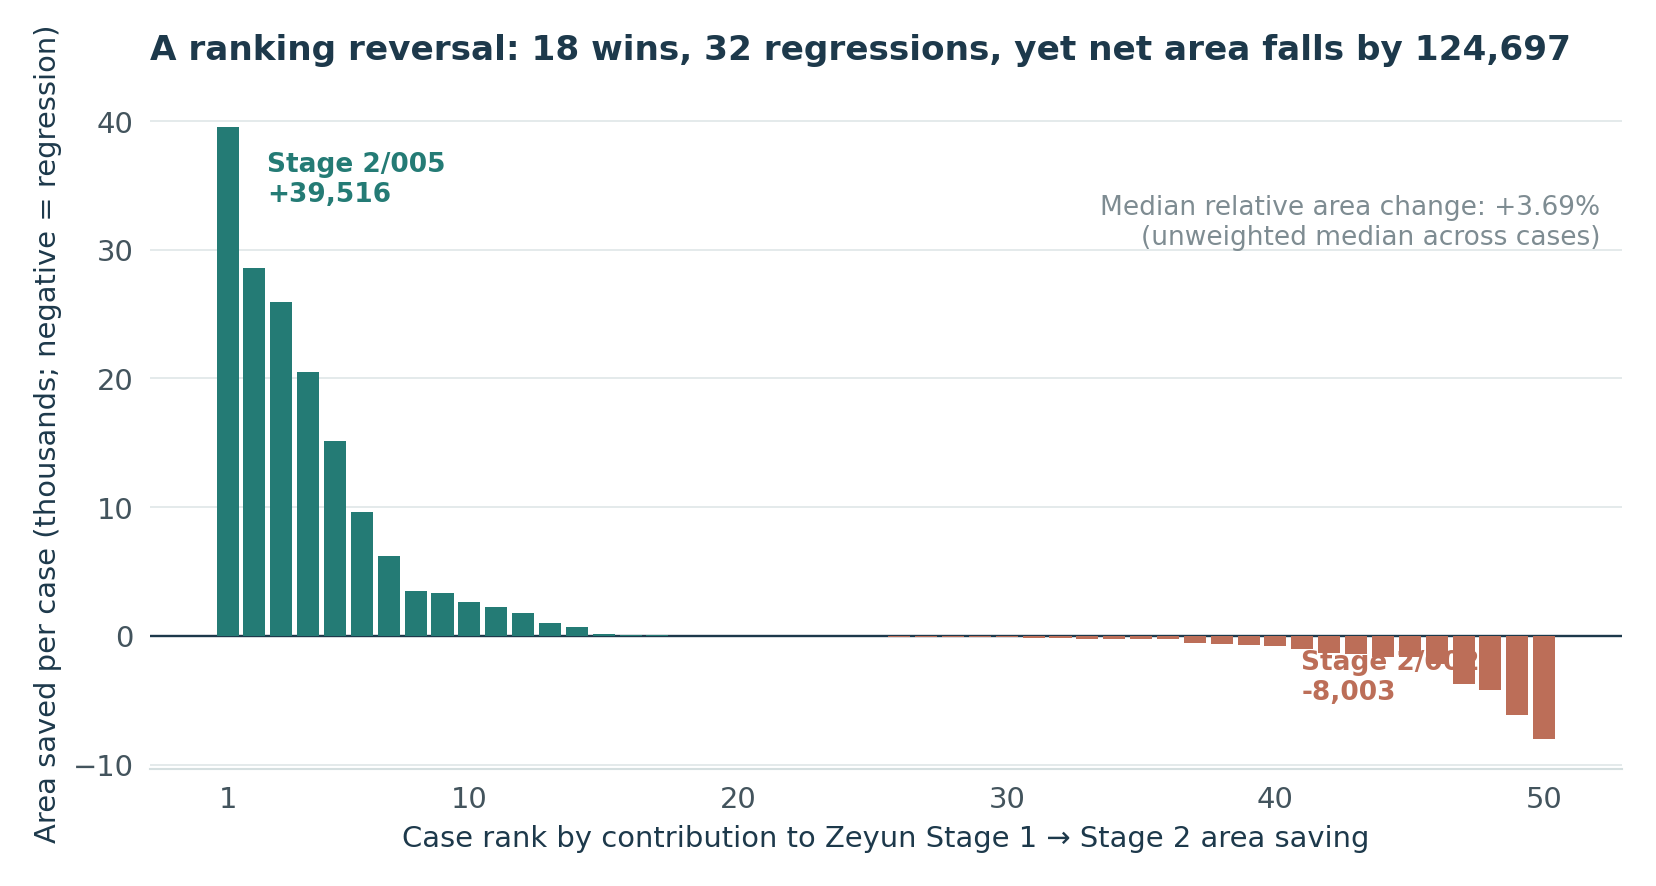
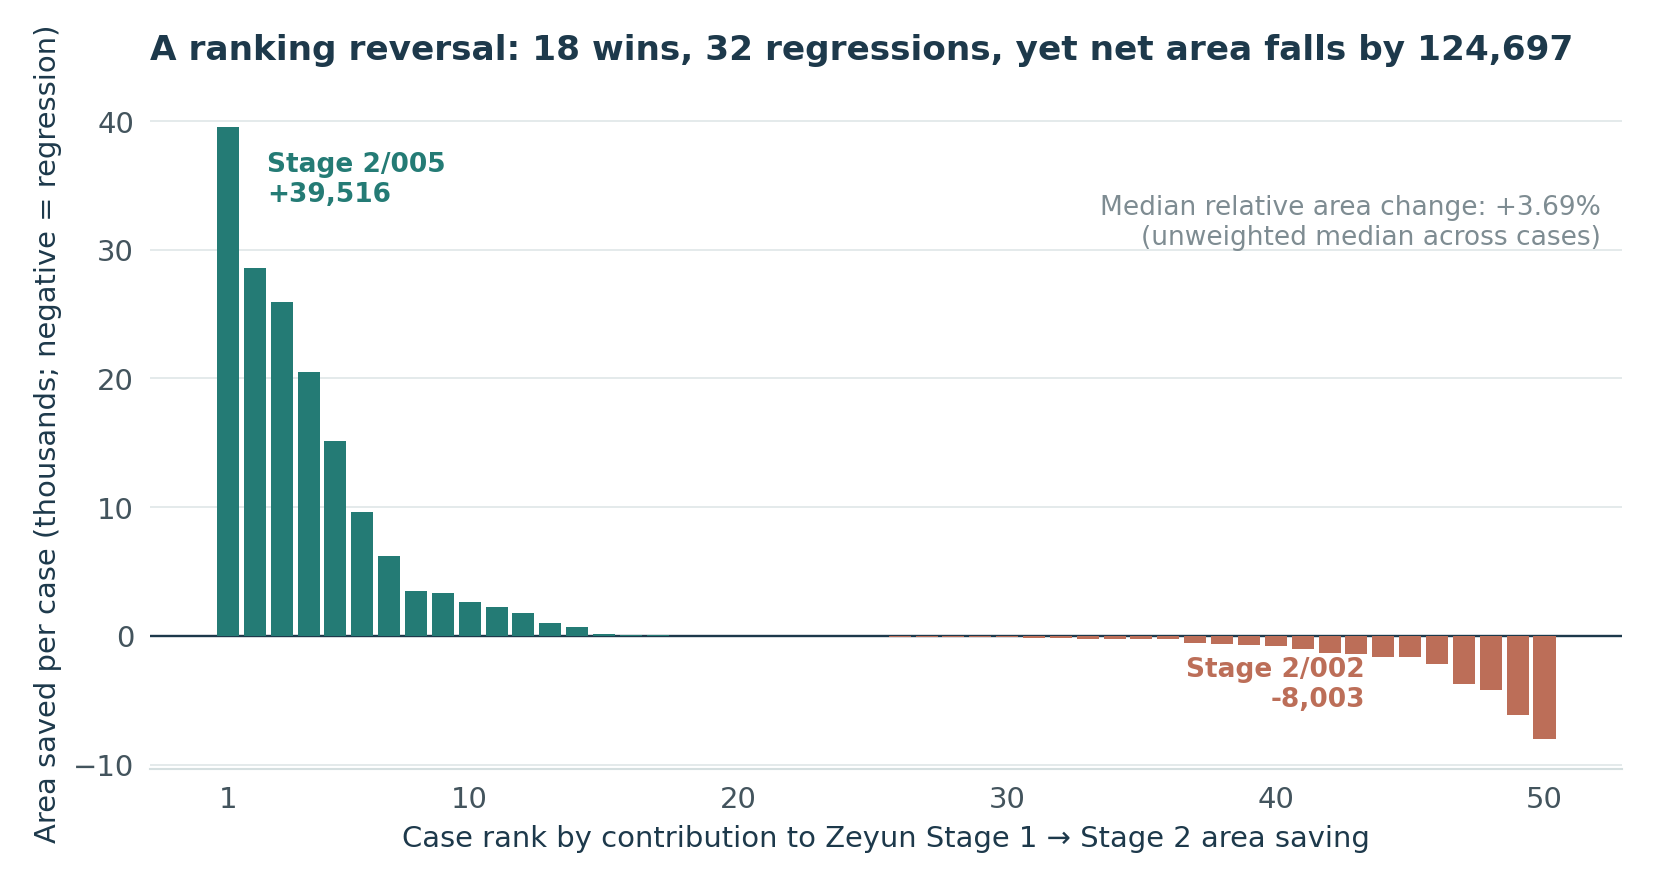
Fix overlapping annotation in Stage 2 ranking reversal figure

diff --git a/Stage 2 Formal Report/Research_Trial_Log/scripts/build_figures.py b/Stage 2 Formal Report/Research_Trial_Log/scripts/build_figures.py
@@ -194,7 +194,17 @@ ax.set_xlabel('Case rank by contribution to Zeyun Stage 1 → Stage 2 area savin
 ax.set_ylabel('Area saved per case (thousands; negative = regression)')
 ax.set_title('A ranking reversal: 18 wins, 32 regressions, yet net area falls by 124,697',loc='left',pad=14)
 ax.annotate('Stage 2/005\n+39,516',xy=(0,pos[0]/1000),xytext=(15,-28),textcoords='offset points',fontsize=10,color=TEAL,weight='bold')
-ax.annotate('Stage 2/002\n-8,003',xy=(49,pos[-1]/1000),xytext=(-92,15),textcoords='offset points',fontsize=10,color=RUST,weight='bold')
+ax.annotate(
+    'Stage 2/002\n-8,003',
+    xy=(49, pos[-1] / 1000),
+    xytext=(-68, 10),
+    textcoords='offset points',
+    fontsize=10,
+    color=RUST,
+    weight='bold',
+    ha='right',
+    va='bottom'
+)
 ax.text(0.985,.78,'Median relative area change: +3.69%\n(unweighted median across cases)',transform=ax.transAxes,ha='right',fontsize=10,color=GRAY)
 style(ax);save(fig,'07_matched_area_rank_reversal')
 
